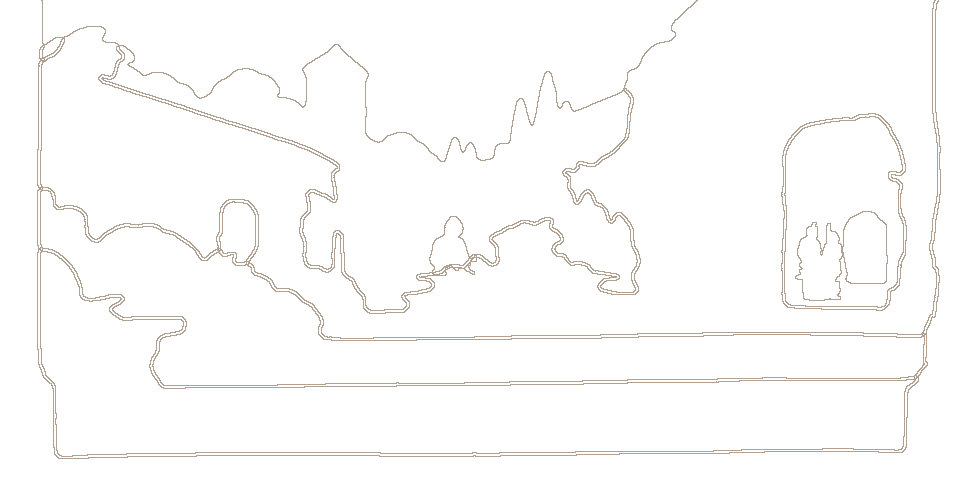
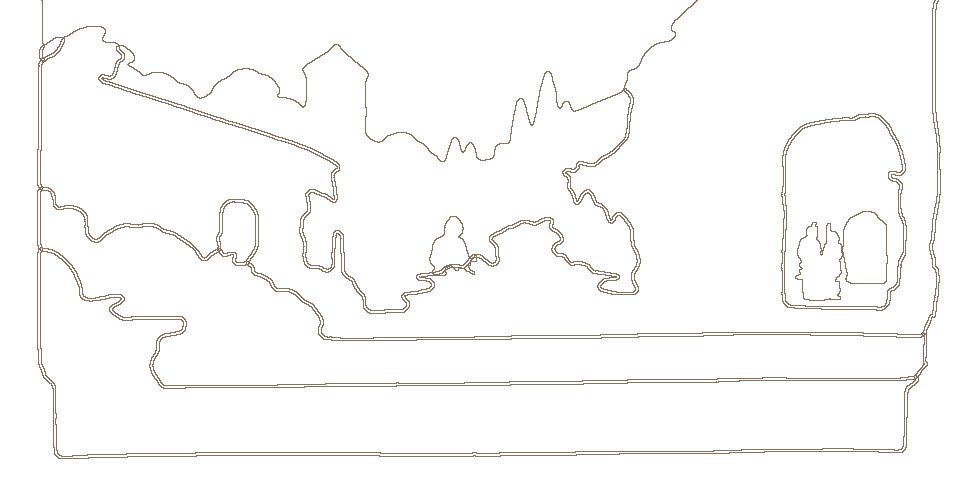
First visit: the bare card is the wall's cream, the slot line firmer
Claude-Session: https://claude.ai/code/session_01Cry6yh1CF8MZfmj52tT8yW

diff --git a/src/components/relief-journey.css b/src/components/relief-journey.css
@@ -212,7 +212,7 @@ main.painted-world .fresco-stage .fresco-caption:focus-visible{outline:none}
   .relief-words p{font-size:clamp(19px,2.9vw,23px);max-width:22em}
 }
 /* A first visit: the courtyard stands up out of its own cut sheets (courtyard-assembly.tsx), then is the painting again. */
-.courtyard-assembly{position:absolute;inset:0;perspective:1400px;pointer-events:none;background:#eee7d7}
+.courtyard-assembly{position:absolute;inset:0;perspective:1400px;pointer-events:none;background:#e2cdb4}
 .courtyard-assembly img{position:absolute;inset:0;width:100%;height:100%;max-width:none;object-fit:cover;display:block;transform-origin:50% 100%;will-change:transform;backface-visibility:hidden}
 .courtyard-assembly:not([data-played]) img:nth-child(n+3){transform:rotateX(60deg)}
 .courtyard-assembly[data-over]{visibility:hidden}
